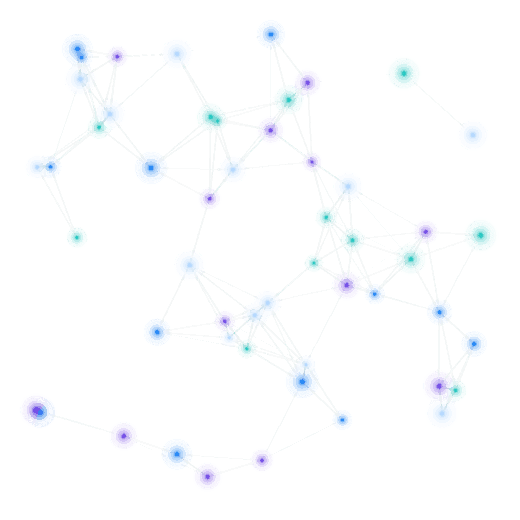
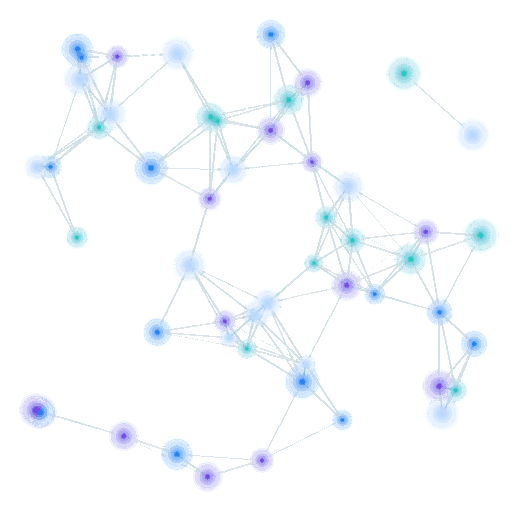
Display ads redesign, light-devices navy-only rule, brighter Plexus, seam + brackets
- display-ads: bigger logos + a minimum logo-size rule; blue bg uses the dots device (not a glow); leaderboard redesigned (larger wordmark/message/CTA, subtle corner dot cluster); device rule now keys off background (light devices navy-only)
- light-devices: make explicit that light devices are navy/dark only; on Rhapsody Blue or white use dots or photography
- assets/dupimg1 (Plexus): brighten the connecting lines so the network reads (was near-invisible)
- spacing: separator seam may be teal OR light blue on navy
- partner-logos: show 5 brackets (drop the lone wrapping 6th), fixed bracket sizing

Claude-Session: https://claude.ai/code/session_01VAZeQ9i2hWPkVLCiN2vsAe

diff --git a/components/display-ads.html b/components/display-ads.html
@@ -13,20 +13,20 @@
 <div style="display:grid;grid-template-columns:repeat(auto-fit,minmax(240px,1fr));gap:16px;margin:14px 0;max-width:640px;">
   <div>
     <div style="container-type:inline-size;position:relative;background:var(--blue);aspect-ratio:6/5;border-radius:10px;overflow:hidden;padding:7cqw;">
-      <div style="position:absolute;right:-16cqw;top:-16cqw;width:62cqw;height:62cqw;border-radius:50%;background:radial-gradient(circle, rgba(255,255,255,0.30) 0%, rgba(35,197,191,0.30) 40%, rgba(255,255,255,0) 72%);"></div>
-      <span class="logo-i logo-wht" style="position:relative;z-index:1;display:block;width:27cqw;aspect-ratio:6.897;"></span>
+      <span style="position:absolute;right:6cqw;top:6cqw;width:2.6cqw;height:2.6cqw;border-radius:50%;background:#FFFFFF;"></span><span style="position:absolute;right:6cqw;top:12.5cqw;width:2.6cqw;height:2.6cqw;border-radius:50%;background:#23C5BF;"></span><span style="position:absolute;right:6cqw;top:19cqw;width:2.6cqw;height:2.6cqw;border-radius:50%;background:#0B2C47;"></span><span style="position:absolute;right:6cqw;top:25.5cqw;width:2.6cqw;height:2.6cqw;border-radius:50%;background:#7340E4;"></span><span style="position:absolute;right:12.5cqw;top:6cqw;width:2.6cqw;height:2.6cqw;border-radius:50%;background:#23C5BF;"></span><span style="position:absolute;right:12.5cqw;top:12.5cqw;width:2.6cqw;height:2.6cqw;border-radius:50%;background:#0B2C47;"></span><span style="position:absolute;right:12.5cqw;top:19cqw;width:2.6cqw;height:2.6cqw;border-radius:50%;background:#7340E4;"></span><span style="position:absolute;right:19cqw;top:6cqw;width:2.6cqw;height:2.6cqw;border-radius:50%;background:#0B2C47;"></span><span style="position:absolute;right:19cqw;top:12.5cqw;width:2.6cqw;height:2.6cqw;border-radius:50%;background:#7340E4;"></span><span style="position:absolute;right:25.5cqw;top:6cqw;width:2.6cqw;height:2.6cqw;border-radius:50%;background:#7340E4;"></span>
+      <span class="logo-i logo-wht" style="position:relative;z-index:1;display:block;width:42cqw;aspect-ratio:6.897;"></span>
       <div style="position:absolute;left:7cqw;right:7cqw;bottom:7cqw;z-index:1;">
         <div style="font-weight:500;font-size:11cqw;line-height:1.08;color:#fff;">Every system, connected.</div>
         <div style="font-weight:500;font-size:5cqw;color:#fff;margin-top:4.5cqw;">See how &rarr;</div>
       </div>
     </div>
-    <p class="caption" style="margin:6px 0 0;">Rhapsody Blue background with a soft Aurora glow (one device), offset clear of the copy. One message, one CTA. Blue converts best in display.</p>
+    <p class="caption" style="margin:6px 0 0;">Rhapsody Blue background with the dots device, offset clear of the copy (light devices are navy-only). One message, one CTA. Blue converts best in display.</p>
   </div>
   <div>
     <div style="container-type:inline-size;position:relative;aspect-ratio:6/5;border-radius:10px;overflow:hidden;">
       <img src="../assets/figures/sec8-03.jpg" alt="Customer at a modern workspace" style="position:absolute;inset:0;width:100%;height:100%;object-fit:cover;">
       <div style="position:absolute;inset:0;background:linear-gradient(180deg,rgba(11,44,71,0.74) 0%,rgba(11,44,71,0.12) 30%,rgba(11,44,71,0.22) 52%,rgba(11,44,71,0.9) 100%);"></div>
-      <span class="logo-i logo-wht" style="position:absolute;left:7cqw;top:6.5cqw;width:26cqw;aspect-ratio:6.897;"></span>
+      <span class="logo-i logo-wht" style="position:absolute;left:7cqw;top:6.5cqw;width:34cqw;aspect-ratio:6.897;"></span>
       <div style="position:absolute;left:7cqw;right:7cqw;bottom:6cqw;">
         <div style="font-weight:500;font-size:8.6cqw;line-height:1.1;color:#fff;">Integration that just works.</div>
         <span style="display:inline-flex;align-items:center;background:var(--blue);color:#fff;font-weight:500;font-size:4.2cqw;border-radius:999px;padding:1.8cqw 4.2cqw;margin-top:3.6cqw;">Learn more &rarr;</span>
@@ -37,12 +37,12 @@
 </div>
 
 <div style="max-width:640px;margin:14px 0;">
-  <div style="container-type:inline-size;background:var(--blue);border-radius:10px;overflow:hidden;">
-    <div style="display:flex;align-items:center;gap:3cqw;padding:2.2cqw 3.2cqw;">
-      <span class="logo-i logo-wht" style="width:12cqw;aspect-ratio:6.897;flex:none;"></span>
-      <div style="flex:1;font-weight:500;font-size:4.2cqw;line-height:1.1;color:#fff;">Connect every system, faster.</div>
-      <span style="flex:none;display:inline-flex;gap:1.5cqw;align-items:center;margin-right:0.5cqw;"><span style="width:1.8cqw;height:1.8cqw;border-radius:50%;background:#fff;"></span><span style="width:1.8cqw;height:1.8cqw;border-radius:50%;background:#23C5BF;"></span><span style="width:1.8cqw;height:1.8cqw;border-radius:50%;background:#0B2C47;"></span><span style="width:1.8cqw;height:1.8cqw;border-radius:50%;background:#7340E4;"></span><span style="width:1.8cqw;height:1.8cqw;border-radius:50%;background:#fff;"></span></span>
-      <span style="flex:none;background:#fff;color:var(--navy);font-weight:500;font-size:3.1cqw;border-radius:999px;padding:1.6cqw 3.4cqw;white-space:nowrap;">Request a demo</span>
+  <div style="container-type:inline-size;position:relative;background:var(--blue);border-radius:10px;overflow:hidden;">
+    <span style="position:absolute;right:3cqw;top:16%;width:1.5cqw;height:1.5cqw;border-radius:50%;background:#FFFFFF;"></span><span style="position:absolute;right:3cqw;top:30%;width:1.5cqw;height:1.5cqw;border-radius:50%;background:#23C5BF;"></span><span style="position:absolute;right:3cqw;top:44%;width:1.5cqw;height:1.5cqw;border-radius:50%;background:#7340E4;"></span><span style="position:absolute;right:6.5cqw;top:16%;width:1.5cqw;height:1.5cqw;border-radius:50%;background:#23C5BF;"></span><span style="position:absolute;right:6.5cqw;top:30%;width:1.5cqw;height:1.5cqw;border-radius:50%;background:#7340E4;"></span><span style="position:absolute;right:10cqw;top:16%;width:1.5cqw;height:1.5cqw;border-radius:50%;background:#7340E4;"></span>
+    <div style="display:flex;align-items:center;gap:4cqw;padding:3cqw 4cqw;position:relative;z-index:1;">
+      <span class="logo-i logo-wht" style="width:20cqw;aspect-ratio:6.897;flex:none;"></span>
+      <div style="flex:1;font-weight:500;font-size:4.6cqw;line-height:1.1;color:#fff;">Connect every system, faster.</div>
+      <span style="flex:none;background:#fff;color:var(--navy);font-weight:500;font-size:3.4cqw;border-radius:999px;padding:1.9cqw 4cqw;white-space:nowrap;">Request a demo</span>
     </div>
   </div>
   <p class="caption" style="margin:6px 0 0;">Leaderboard: wordmark, one message, a dot-row accent (one device), and one aligned CTA.</p>
@@ -53,9 +53,10 @@
   <li><strong>Billboard principle.</strong> Assume a glance. Keep text minimal and instantly readable; if it can&rsquo;t be understood in a few seconds, cut it.</li>
   <li><strong>One message.</strong> These are small formats, so carry a single idea. Make clear what Rhapsody products do in terms of a customer need or challenge, or in the customer&rsquo;s voice, not a feature list.</li>
   <li><strong>One CTA.</strong> A single call to action, aligned with the message. If the message is about speed, the CTA is &ldquo;See how,&rdquo; not a generic &ldquo;Contact sales.&rdquo;</li>
-  <li><strong>One brand device.</strong> Carry one Rhapsody device so the ad is unmistakably ours, a light glow (Aurora or Burst) or the dots (a cluster or a dot row), never two, offset and clear of the copy. A photo can be the lead visual in place of a device.</li>
+  <li><strong>One brand device.</strong> Carry one Rhapsody device so the ad is unmistakably ours, never two, offset and clear of the copy. The device depends on the background: on <strong>navy</strong>, a light glow (Aurora or Burst) or the dots; on <strong>Rhapsody Blue or white</strong>, the dots (light devices are navy-only). A photo can be the lead visual in place of a device.</li>
+  <li><strong>Logo size.</strong> Make the wordmark a confident anchor, not an afterthought. It should be at least <strong>25% of a square/vertical unit&rsquo;s width</strong>, and at least <strong>18% of a wide unit&rsquo;s width</strong> (leaderboard/banner), never below <strong>90px</strong> wide. Give it full clear space and keep it legible against its background.</li>
   <li><strong>Photography.</strong> Use approved library images (forward-facing, bright, modern workspace); they perform well. Keep text off busy areas and add a navy scrim for legibility. Keep the wordmark on a darker part of the image or add a scrim behind it so it never fades into the photo. Follow the photography rules.</li>
-  <li><strong>Type &amp; color.</strong> White or navy text on blue; one accent word at most. For small blue elements on navy, drop text to light blue, but make a CTA a <strong>Rhapsody Blue pill</strong> (blue fill, white label) rather than small blue text. Keep the wordmark small and clear with its clear space, and legible against its background.</li>
+  <li><strong>Type &amp; color.</strong> White or navy text on blue; one accent word at most. For small blue elements on navy, drop text to light blue, but make a CTA a <strong>Rhapsody Blue pill</strong> (blue fill, white label) rather than small blue text.</li>
   <li><strong>Sizing.</strong> Design one layout that adapts across standard units (300&times;250, 300&times;600, 160&times;600, 728&times;90); keep the message and wordmark inside a safe margin.</li>
 </ul>
 

diff --git a/components/partner-logos.html b/components/partner-logos.html
@@ -19,34 +19,29 @@
 <p>To present a wall of customer or partner logos, place each logo between two curved brackets, echoing the connection motif without hard boxes. This keeps a busy multi-logo grid feeling refined and premium. The parenthesis device is how we <strong>bring Rhapsody branding into applications where multiple logos appear</strong>, and it also <strong>solves for logos of different sizes and shapes</strong> (stacked versus horizontal) by giving each one a consistent frame.</p>
 <div style="background:#fff;border:1px solid var(--lgray);border-radius:12px;padding:20px;margin:12px 0;">
   <div style="display:flex;flex-wrap:wrap;gap:20px;align-items:center;justify-content:center;">
-  <div style="flex:1 1 90px;max-width:120px;"><svg viewBox="0 0 100 100" style="width:100%;height:auto;display:block;" xmlns="http://www.w3.org/2000/svg" role="img" aria-label="Bracket logo treatment">
+  <div style="flex:0 0 100px;"><svg viewBox="0 0 100 100" style="width:100%;height:auto;display:block;" xmlns="http://www.w3.org/2000/svg" role="img" aria-label="Bracket logo treatment">
     <path d="M 27.1 17.2 A 40 40 0 0 0 27.1 82.8" fill="none" stroke="#1A81F4" stroke-width="5" stroke-linecap="round"/>
     <path d="M 72.9 17.2 A 40 40 0 0 1 72.9 82.8" fill="none" stroke="#1A81F4" stroke-width="5" stroke-linecap="round"/>
     <rect x="32" y="44.5" width="36" height="11" rx="5.5" fill="#7E858C"/>
   </svg></div>
-  <div style="flex:1 1 90px;max-width:120px;"><svg viewBox="0 0 100 100" style="width:100%;height:auto;display:block;" xmlns="http://www.w3.org/2000/svg" role="img" aria-label="Bracket logo treatment">
+  <div style="flex:0 0 100px;"><svg viewBox="0 0 100 100" style="width:100%;height:auto;display:block;" xmlns="http://www.w3.org/2000/svg" role="img" aria-label="Bracket logo treatment">
     <path d="M 27.1 17.2 A 40 40 0 0 0 27.1 82.8" fill="none" stroke="#23C5BF" stroke-width="5" stroke-linecap="round"/>
     <path d="M 72.9 17.2 A 40 40 0 0 1 72.9 82.8" fill="none" stroke="#23C5BF" stroke-width="5" stroke-linecap="round"/>
     <rect x="32" y="44.5" width="36" height="11" rx="5.5" fill="#7E858C"/>
   </svg></div>
-  <div style="flex:1 1 90px;max-width:120px;"><svg viewBox="0 0 100 100" style="width:100%;height:auto;display:block;" xmlns="http://www.w3.org/2000/svg" role="img" aria-label="Bracket logo treatment">
+  <div style="flex:0 0 100px;"><svg viewBox="0 0 100 100" style="width:100%;height:auto;display:block;" xmlns="http://www.w3.org/2000/svg" role="img" aria-label="Bracket logo treatment">
     <path d="M 27.1 17.2 A 40 40 0 0 0 27.1 82.8" fill="none" stroke="#7340E4" stroke-width="5" stroke-linecap="round"/>
     <path d="M 72.9 17.2 A 40 40 0 0 1 72.9 82.8" fill="none" stroke="#7340E4" stroke-width="5" stroke-linecap="round"/>
     <rect x="32" y="44.5" width="36" height="11" rx="5.5" fill="#7E858C"/>
   </svg></div>
-  <div style="flex:1 1 90px;max-width:120px;"><svg viewBox="0 0 100 100" style="width:100%;height:auto;display:block;" xmlns="http://www.w3.org/2000/svg" role="img" aria-label="Bracket logo treatment">
+  <div style="flex:0 0 100px;"><svg viewBox="0 0 100 100" style="width:100%;height:auto;display:block;" xmlns="http://www.w3.org/2000/svg" role="img" aria-label="Bracket logo treatment">
     <path d="M 27.1 17.2 A 40 40 0 0 0 27.1 82.8" fill="none" stroke="#1A81F4" stroke-width="5" stroke-linecap="round"/>
     <path d="M 72.9 17.2 A 40 40 0 0 1 72.9 82.8" fill="none" stroke="#1A81F4" stroke-width="5" stroke-linecap="round"/>
     <rect x="32" y="44.5" width="36" height="11" rx="5.5" fill="#7E858C"/>
   </svg></div>
-  <div style="flex:1 1 90px;max-width:120px;"><svg viewBox="0 0 100 100" style="width:100%;height:auto;display:block;" xmlns="http://www.w3.org/2000/svg" role="img" aria-label="Bracket logo treatment">
+  <div style="flex:0 0 100px;"><svg viewBox="0 0 100 100" style="width:100%;height:auto;display:block;" xmlns="http://www.w3.org/2000/svg" role="img" aria-label="Bracket logo treatment">
     <path d="M 27.1 17.2 A 40 40 0 0 0 27.1 82.8" fill="none" stroke="#23C5BF" stroke-width="5" stroke-linecap="round"/>
     <path d="M 72.9 17.2 A 40 40 0 0 1 72.9 82.8" fill="none" stroke="#23C5BF" stroke-width="5" stroke-linecap="round"/>
-    <rect x="32" y="44.5" width="36" height="11" rx="5.5" fill="#7E858C"/>
-  </svg></div>
-  <div style="flex:1 1 90px;max-width:120px;"><svg viewBox="0 0 100 100" style="width:100%;height:auto;display:block;" xmlns="http://www.w3.org/2000/svg" role="img" aria-label="Bracket logo treatment">
-    <path d="M 27.1 17.2 A 40 40 0 0 0 27.1 82.8" fill="none" stroke="#7340E4" stroke-width="5" stroke-linecap="round"/>
-    <path d="M 72.9 17.2 A 40 40 0 0 1 72.9 82.8" fill="none" stroke="#7340E4" stroke-width="5" stroke-linecap="round"/>
     <rect x="32" y="44.5" width="36" height="11" rx="5.5" fill="#7E858C"/>
   </svg></div>
 </div>

diff --git a/components/spacing.html b/components/spacing.html
@@ -31,7 +31,7 @@
 </ul>
 <p class="caption">Rule of thumb: the 6&ndash;7% figure is the outer safe margin for a single graphic. Padding between objects is a separate, smaller gutter that keeps a busy layout legible. When in doubt, add space.</p>
 <h3>Separator line (the seam)</h3>
-<p>When a graphic borders other content, such as a webpage hero or an email banner seam, a thin rule sits along one edge (the bottom by default) to separate it from the content below. On standalone pieces like ads or social posts, no line is needed. Keep it thin and full-width. <strong>Teal is the default and signature seam</strong> where a navy or dark band meets the body. If the band itself is white or light, teal is too low-contrast to read (2.1:1 on white), so switch the seam to <strong>Rhapsody Blue</strong> (preferred for digital) or <strong>navy</strong>. Don&rsquo;t use light blue for the seam; it is too faint on white.</p>
+<p>When a graphic borders other content, such as a webpage hero or an email banner seam, a thin rule sits along one edge (the bottom by default) to separate it from the content below. On standalone pieces like ads or social posts, no line is needed. Keep it thin and full-width. <strong>Teal is the default and signature seam</strong> where a navy or dark band meets the body; <strong>light blue</strong> is an approved alternative on navy. If the band itself is white or light, both teal and light blue are too low-contrast to read, so switch the seam to <strong>Rhapsody Blue</strong> (preferred for digital) or <strong>navy</strong>.</p>
 <div style="display:grid;grid-template-columns:repeat(auto-fit,minmax(210px,1fr));gap:16px;margin:12px 0;max-width:520px;">
   <div>
     <div style="border-radius:12px;overflow:hidden;border:1px solid var(--lgray);">
@@ -39,7 +39,7 @@
       <div style="background:var(--teal);height:6px;"></div>
       <div style="background:#fff;height:30px;"></div>
     </div>
-    <p class="caption" style="margin:6px 0 0;">Teal seam on a navy band (default, signature).</p>
+    <p class="caption" style="margin:6px 0 0;">Teal seam on a navy band (default; light blue is an approved alternative on navy).</p>
   </div>
   <div>
     <div style="border-radius:12px;overflow:hidden;border:1px solid var(--lgray);">

diff --git a/components/light-devices.html b/components/light-devices.html
@@ -8,10 +8,10 @@
 </head><body>
 <div class="wrap">
 <h2>Light devices</h2>
-<p>Alongside the dots, three soft light-based devices carry atmosphere. Where the dots are precise and rational, these are warm and human, together they say engineered, but human. Use them for photo-free digital moments (heroes, social, slides), never behind photography.</p>
+<p>Alongside the dots, three soft light-based devices carry atmosphere. Where the dots are precise and rational, these are warm and human, together they say engineered, but human. Use them for photo-free digital moments (heroes, social, slides) on <strong>navy or dark backgrounds only</strong>, never behind photography.</p>
 <div class="principle">
   <div class="k">Rules for the light devices</div>
-  <p>Glows use teal, blue, and purple only, never orange (orange lives in the dots and photo-frame rings). Keep each glow within three colors. Offset the glow into open space so copy sits on the calm side of the composition, never on the brightest point.</p>
+  <p><strong>Light devices sit on navy or dark grounds only.</strong> On a Rhapsody Blue or white background, don&rsquo;t use a glow, use the dots device or photography instead. Glows use teal, blue, and purple only, never orange (orange lives in the dots and photo-frame rings). Keep each glow within three colors. Offset the glow into open space so copy sits on the calm side of the composition, never on the brightest point.</p>
 </div>
 <h4>The light devices</h4>
 <div style="display:grid;grid-template-columns:repeat(auto-fit,minmax(180px,1fr));gap:14px;margin:12px 0;">
